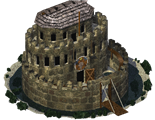
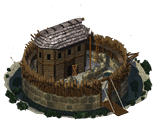
Fix bug #842960

diff --git a/src/logic/constructionsite.cc b/src/logic/constructionsite.cc
@@ -584,11 +584,11 @@ void ConstructionSite::draw
 		} catch (Map_Object_Descr::Animation_Nonexistent) {
 			a = m_prev_building->get_animation("idle");
 		}
-		dst.drawanim
+		dst.drawanimrect
 			(pos,
 			 a,
-			 (g_gr->nr_frames(a) - 1) * FRAME_LENGTH,
-			 get_owner());
+			 tanim - FRAME_LENGTH, get_owner(),
+			 Rect(Point(0, 0), w, h - lines));
 	}
 
 	assert(lines <= h);
